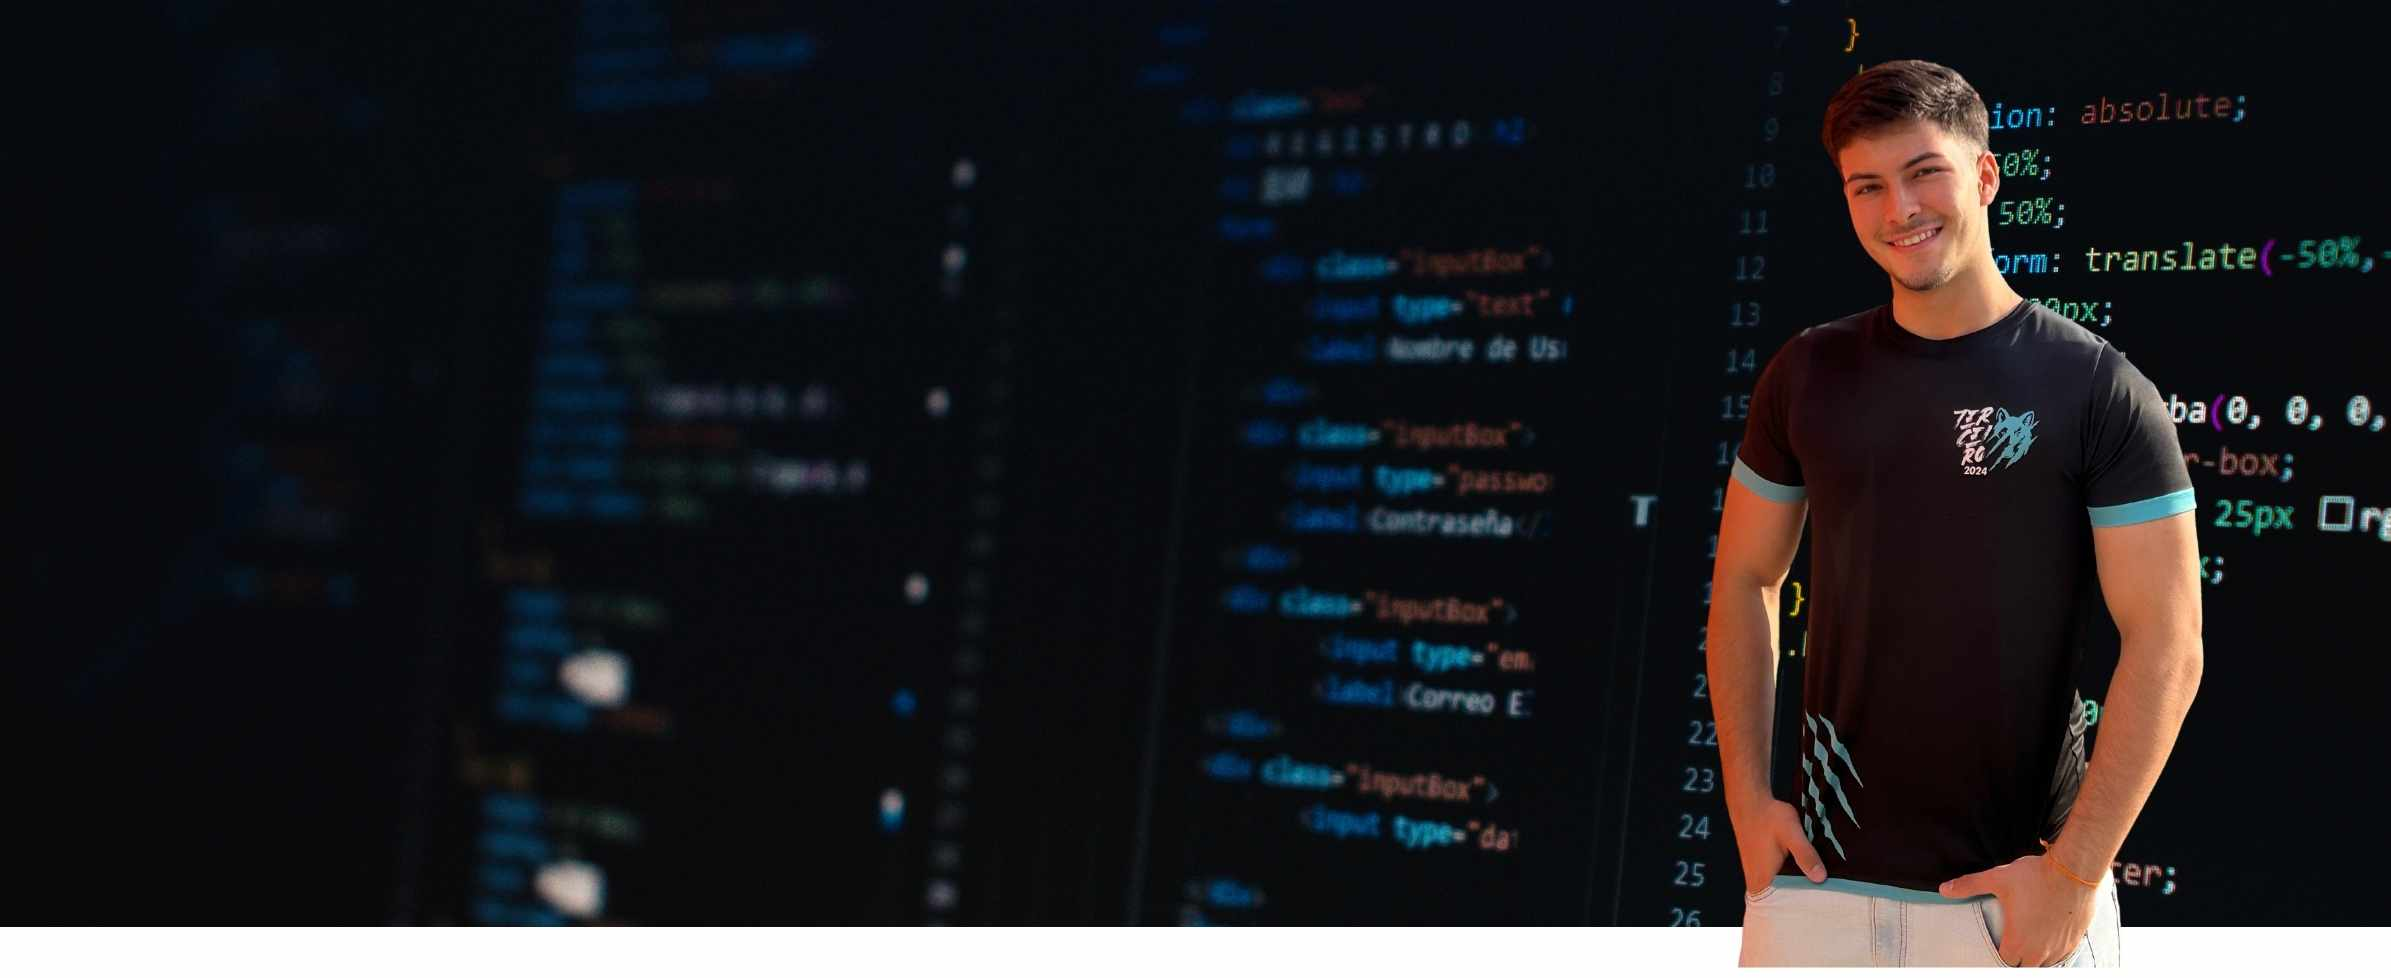
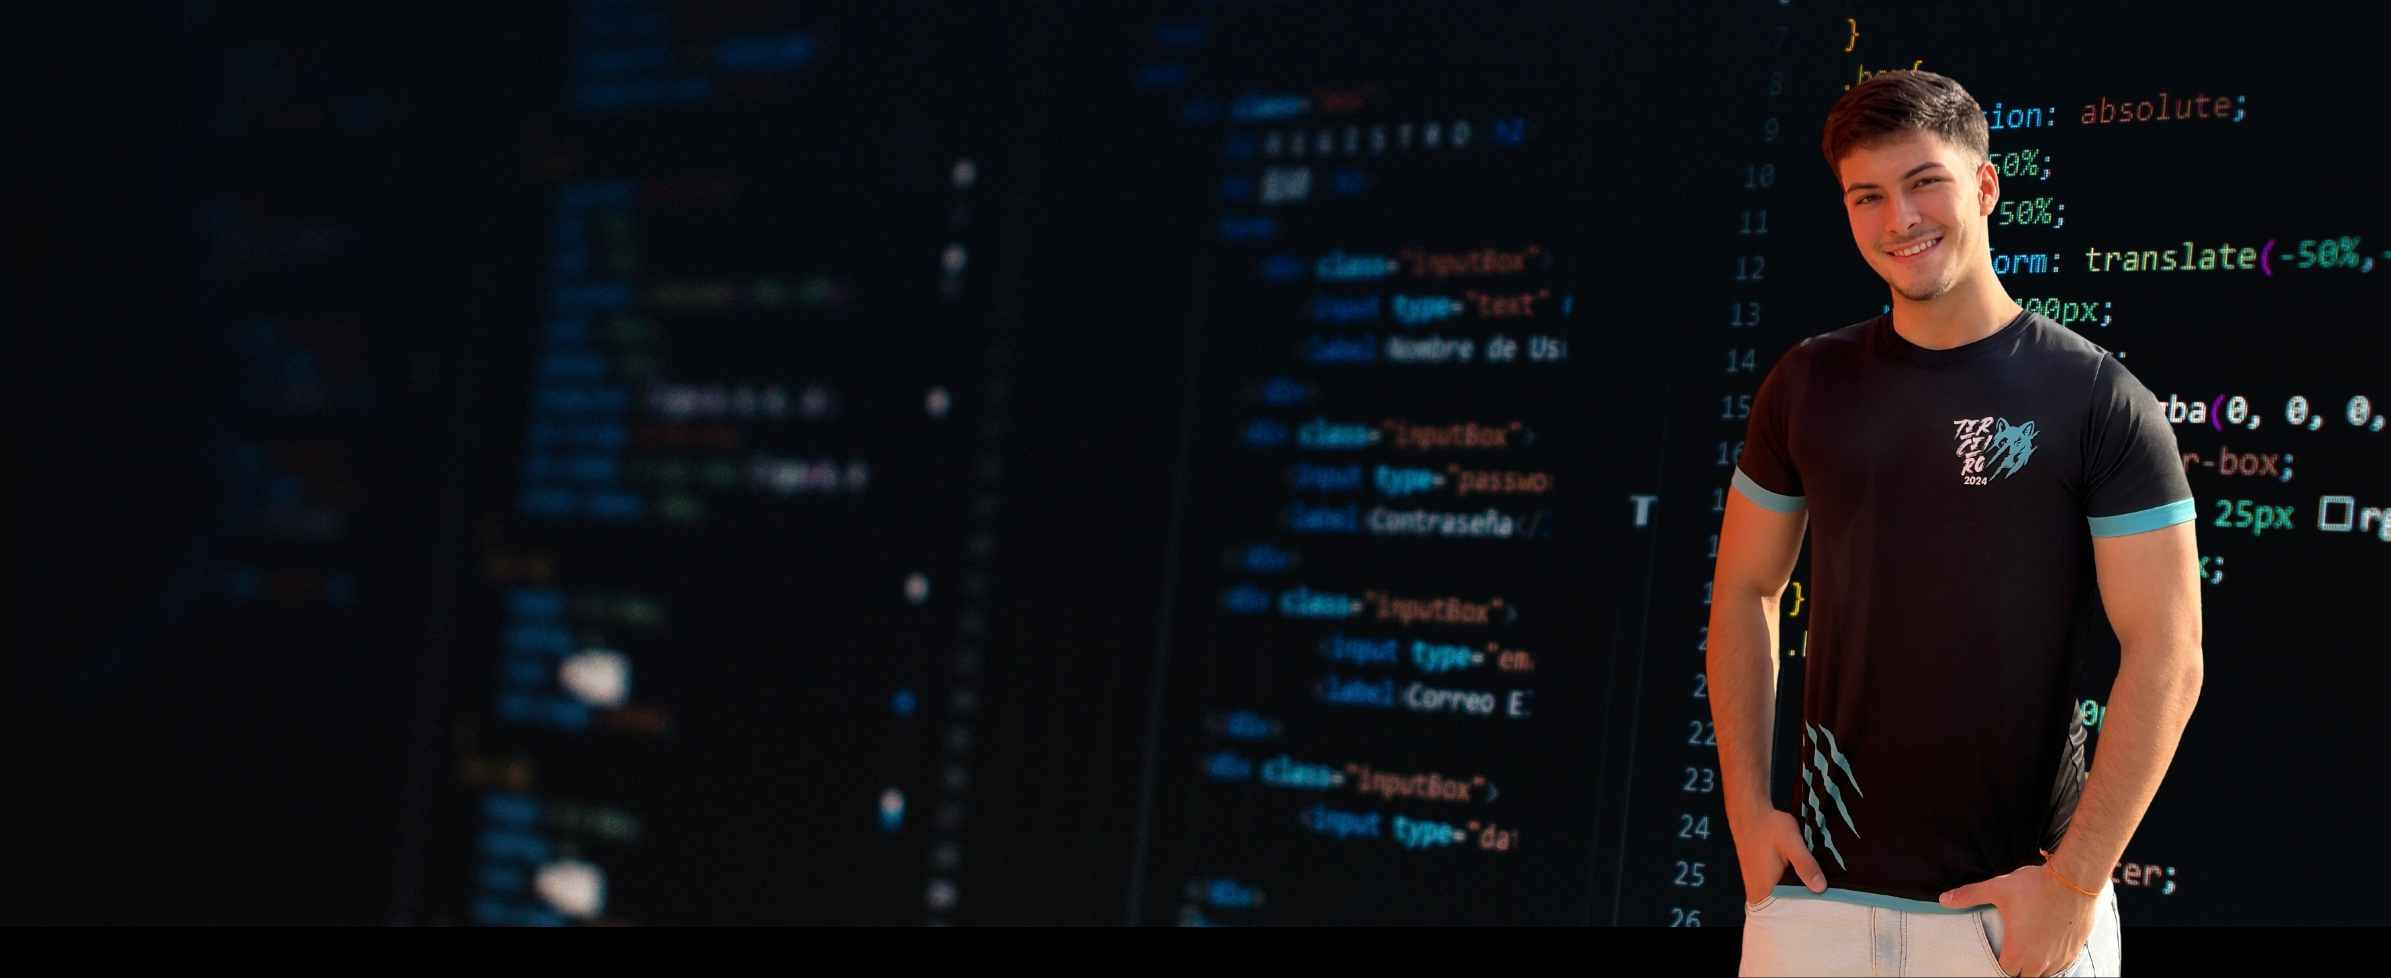
SPRINT3

diff --git a/index.html b/index.html
@@ -13,25 +13,27 @@
 
 <body>
     <header>
-        <nav class="container-xl pt-3 pb-3">
-            <div class="d-flex nav-box">
-                <div class="nav-box-item">
-                    <a href="index.html" class="nav-link-lg">pedrocampanari</a>
-                    <span class="span-offset">|</span>
-                    <a href="index.html" class="nav-link-a-lg">developer</a>
-                </div>
-                <div class="nav-box-item">
-                    <a href="html/about.html" class="nav-link"><span class="icon"><img
-                                src="assets/icons/info.png"></span>Sobre</a>
-                    <a href="html/projects.html" class="nav-link"><span class="icon"><img
-                                src="assets/icons/projects.png"></span>Projetos</a>
-                    <a href="html/tech.html" class="nav-link"><span class="icon"><img
-                                src="assets/icons/connection.png"></span>Tecnologias</a>
-                    <a href="html/contact.html" class="btn-contact-us">Contate-nos</a>
-                </div>
+        <div class="nav-stickly">
+            <nav class="container-xl pt-3 pb-3">
+                <div class="d-flex nav-box">
+                    <div class="nav-box-item">
+                        <a href="index.html" class="nav-link-lg">pedrocampanari</a>
+                        <span class="span-offset">|</span>
+                        <a href="index.html" class="nav-link-a-lg">developer</a>
+                    </div>
+                    <div class="nav-box-item">
+                        <a href="html/about.html" class="nav-link"><span class="icon"><img
+                                    src="assets/icons/info.png"></span>Sobre</a>
+                        <a href="html/projects.html" class="nav-link"><span class="icon"><img
+                                    src="assets/icons/projects.png"></span>Projetos</a>
+                        <a href="html/tech.html" class="nav-link"><span class="icon"><img
+                                    src="assets/icons/connection.png"></span>Tecnologias</a>
+                        <a href="html/contact.html" class="btn-contact-us">Contate-nos</a>
+                    </div>
 
-            </div>
-        </nav>
+                </div>
+            </nav>
+        </div>
         <div class="banner-top">
             <div class="container-xl">
                 <div class="d-flex banner-top-box pt-5 typewriter">
@@ -41,17 +43,75 @@
                 <div class="description">
                     <p class="banner-top-description">Oferecemos soluções tecnológicas inovadoras que transformam ideias
                         em realidade. Com expertise em desenvolvimento de software, IoT e automação, ajudamos empresas a
-                        alcançar resultados excepcionais e a se <span style="background-color: #4949fd; font-weight:bold; padding:0 6px 0 6px;">DESTACAR EM UM MERCADO COMPETITIVO!</span></p>
+                        alcançar resultados excepcionais e a se <span
+                            style="background-color: #4949fd; font-weight:bold; padding:0 6px 0 6px;">DESTACAR EM UM
+                            MERCADO COMPETITIVO!</span></p>
                 </div>
             </div>
         </div>
     </header>
     <main>
-        tets
+        <section class="container">
+            <div class="row">
+                <div class="col pt-4 pb-3">
+                    <h1 class="title-style">Skills & Experiences</h1>
+                    <hr>
+                </div>
+            </div>
+            <div class="row">
+                <div class="col box-section d-flex" id="box-section">
+                    <a href="#box-section" class="section1-container-item"><img src="assets/homeImages/tools.jpg"
+                            width="100%" height="100%"></a>
+                    <a href="#box-section" class="section1-container-item"><img src="assets/homeImages/tools2.jpg"
+                            width="100%" height="100%"></a>
+                    <a href="#box-section" class="section1-container-item"><img src="assets/homeImages/tools3.jpg"
+                            width="100%" height="100%"></a>
+                </div>
+            </div>
+        </section>
     </main>
-    <footer>
 
+
+
+    <footer class="mt-5">
+        <div class="container">
+            <div class="row">
+                <div class="col">
+                    <a href="index.html" class="nav-link-lg-2">pedrocampanari <span class="span-offset">|</span> developer</a>
+                </div>
+                <div class="col">
+                    <div class="footer-menu">
+                        <a href="html/sobre.html">Sobre</a>
+                        <a href="html/project.html">Projetos</a>
+                    </div>
+                </div>
+                <div class="col">
+                    <div class="footer-menu">
+                        <a href="html/budgets.html">Orçamentos</a>
+                        <a href="html/jobs.html">Serviços</a>
+                        <a href="html/contact.html">Contate-nos</a>
+                        
+                    </div>
+                </div>
+                <div class="col">
+                    <div class="footer-menu-social">
+                        <a href="https://instagram.com/pedrocampanari01" target="_blank"><img width="40rem"
+                                src="assets/icons/instagram.png"></a>
+                        <a href="https://facebook.com/" target="_blank"><img width="40rem"
+                                src="assets/icons/facebook.png"></a>
+                        <a href="https://linkedin.com/" target="_blank"><img width="40rem"
+                                src="assets/icons/linkedin.png"></a>
+                    </div>
+                </div>
+            </div>
+            <div class="row">
+                <p class="pt-5" style="text-align: center; color: aliceblue; font-weight: 500;">TODOS OS DIREITOS
+                    RESERVADOS! &copy; pedrocampanari</p>
+            </div>
+        </div>
     </footer>
+
+
     <script src="js/script.js"></script>
     <script src="https://cdn.jsdelivr.net/npm/@popperjs/core@2.11.8/dist/umd/popper.min.js"
         integrity="sha384-I7E8VVD/ismYTF4hNIPjVp/Zjvgyol6VFvRkX/vR+Vc4jQkC+hVqc2pM8ODewa9r"

diff --git a/css/style.css b/css/style.css
@@ -1,7 +1,8 @@
 @import url('https://fonts.googleapis.com/css2?family=Nunito:ital,wght@0,200..1000;1,200..1000&family=Source+Code+Pro:ital,wght@0,200..900;1,200..900&display=swap');
 @import url('https://fonts.googleapis.com/css2?family=Bebas+Neue&display=swap');
+@import url('https://fonts.googleapis.com/css2?family=Kanit:ital,wght@0,100;0,200;0,300;0,400;0,500;0,600;0,700;0,800;0,900;1,100;1,200;1,300;1,400;1,500;1,600;1,700;1,800;1,900&display=swap');
 
-*{
+* {
     margin: 0;
     padding: 0;
 }
@@ -9,7 +10,6 @@
 body {
     display: flex;
     flex-direction: column;
-    align-items: end;
     margin: 0;
     padding: 0;
 }
@@ -18,6 +18,14 @@ header {
     background-color: #000000;
     color: #ffffff;
     width: 100%;
+}
+
+.nav-stickly {
+    background-color: #000000c6;
+    position: sticky;
+    color: #ffffff;
+    top: 0;
+
 }
 
 .nav-box {
@@ -107,11 +115,13 @@ a.nav-link:hover {
 }
 
 .banner-top {
+    background-color: #ffffff;
     background-image: url('../assets/banners/banner-top.jpg');
     background-position: top center;
     background-repeat: no-repeat;
-    background-size: contain;
-    height: 87.5vh;
+    background-size: cover;
+    min-height: 87.5vh;
+
 }
 
 .banner-top-box {
@@ -126,10 +136,10 @@ a.nav-link:hover {
 }
 
 .span-banner-top:nth-child(2) {
-    margin-top: -4.7vw;
-    margin-bottom: -2.3vw;
+    margin-top: -70px;
+    margin-bottom: -2vh;
 
-    font-size: 9vw;
+    font-size: 10vw;
     font-family: "Bebas Neue", sans-serif;
     font-weight: 800;
     font-style: normal;
@@ -151,7 +161,7 @@ a.nav-link:hover {
     0% {
         color: #00c3ff;
         text-shadow: 0px 0px 2px #ffffff;
-        
+
     }
 
     50% {
@@ -162,7 +172,7 @@ a.nav-link:hover {
     100% {
         color: #00c3ff;
         text-shadow: 0px 0px 2px #ffffff;
-        
+
     }
 
 }
@@ -170,7 +180,7 @@ a.nav-link:hover {
 @keyframes cursor {
     0% {
         opacity: 1;
-        
+
     }
 
     49% {
@@ -187,33 +197,116 @@ a.nav-link:hover {
 }
 
 
-.banner-top-description{
+.banner-top-description {
     text-shadow: 1px 2px 3px #000000;
     text-align: left;
     width: 60vw;
-    font-size: 1.5rem;
+    font-size: 1.5vw;
     font-family: 'Nunito', Arial, sans-serif;
     font-style: italic;
 }
 
-/* Personaliza o fundo do scrollbar */
+
 ::-webkit-scrollbar {
-    width: 8px; /* Largura do scrollbar */
-    background-color: #111111; /* Cor de fundo do scrollbar */
+    width: 8px;
+    background-color: #111111;
 }
 
-/* Personaliza a cor da barra de rolagem */
 ::-webkit-scrollbar-thumb {
-    background-color: rgb(0, 255, 255); /* Cor da barra de rolagem */
-    border-radius: 10px; /* Arredonda os cantos */
+    background-color: rgb(0, 255, 255);
+    border-radius: 10px;
 }
 
-/* Cor da barra de rolagem quando o mouse estiver sobre ela */
 ::-webkit-scrollbar-thumb:hover {
-    background-color: rgb(0, 105, 112); /* Cor ao passar o mouse */
+    background-color: rgb(0, 105, 112);
 }
 
 main {
-    background-color: #000000;
+    background-color: #ffffff;
     width: 100%;
+}
+
+.title-style {
+    font-family: "Kanit", sans-serif;
+    font-size: 3.5rem;
+    color: #000000;
+    font-weight: bold;
+    text-align: center;
+    font-style: normal;
+}
+
+.box-section {
+    align-items: center;
+    justify-content: space-evenly;
+    flex-wrap: wrap;
+    row-gap: 1rem;
+}
+
+.section1-container-item {
+    background-image: linear-gradient(to bottom, #7edfcf, #b8fff8);
+    width: 23rem;
+    height: 15rem;
+    display: flex;
+    align-items: center;
+    justify-content: center;
+    border-radius: 30px 30px 30px;
+
+}
+
+.section1-container-item>img {
+    border-radius: 30px 30px 30px;
+}
+
+
+
+
+
+footer {
+    padding: 5rem 0 1rem 0;
+    background-color: #000000;
+    height: auto;
+}
+
+
+.footer-menu {
+    display: flex;
+    align-items: center;
+    flex-direction: column;
+
+}
+
+.footer-menu>img {
+    mix-blend-mode: overlay;
+}
+
+.footer-menu>a {
+    text-align: start;
+    width: 100%;
+    text-decoration: none;
+    color: #fff;
+    padding: 3px 0 3px 10px;
+    font-style: italic;
+}
+
+.footer-menu>a:hover {
+    border-left: 3px solid #ffffff;
+    background-color: #000000;
+    color: #ffffff;
+    font-weight: bold;
+    font-style: normal;
+}
+
+.footer-menu-social {
+    display: flex;
+    align-items: center;
+    column-gap: 2px;
+}
+
+.nav-link-lg-2 {
+    font-family: "Source Code Pro", Arial, monospace;
+    font-optical-sizing: auto;
+    font-weight: 900;
+    font-size: 1vw;
+    color: #ffffff;
+    text-decoration: none;
 }
